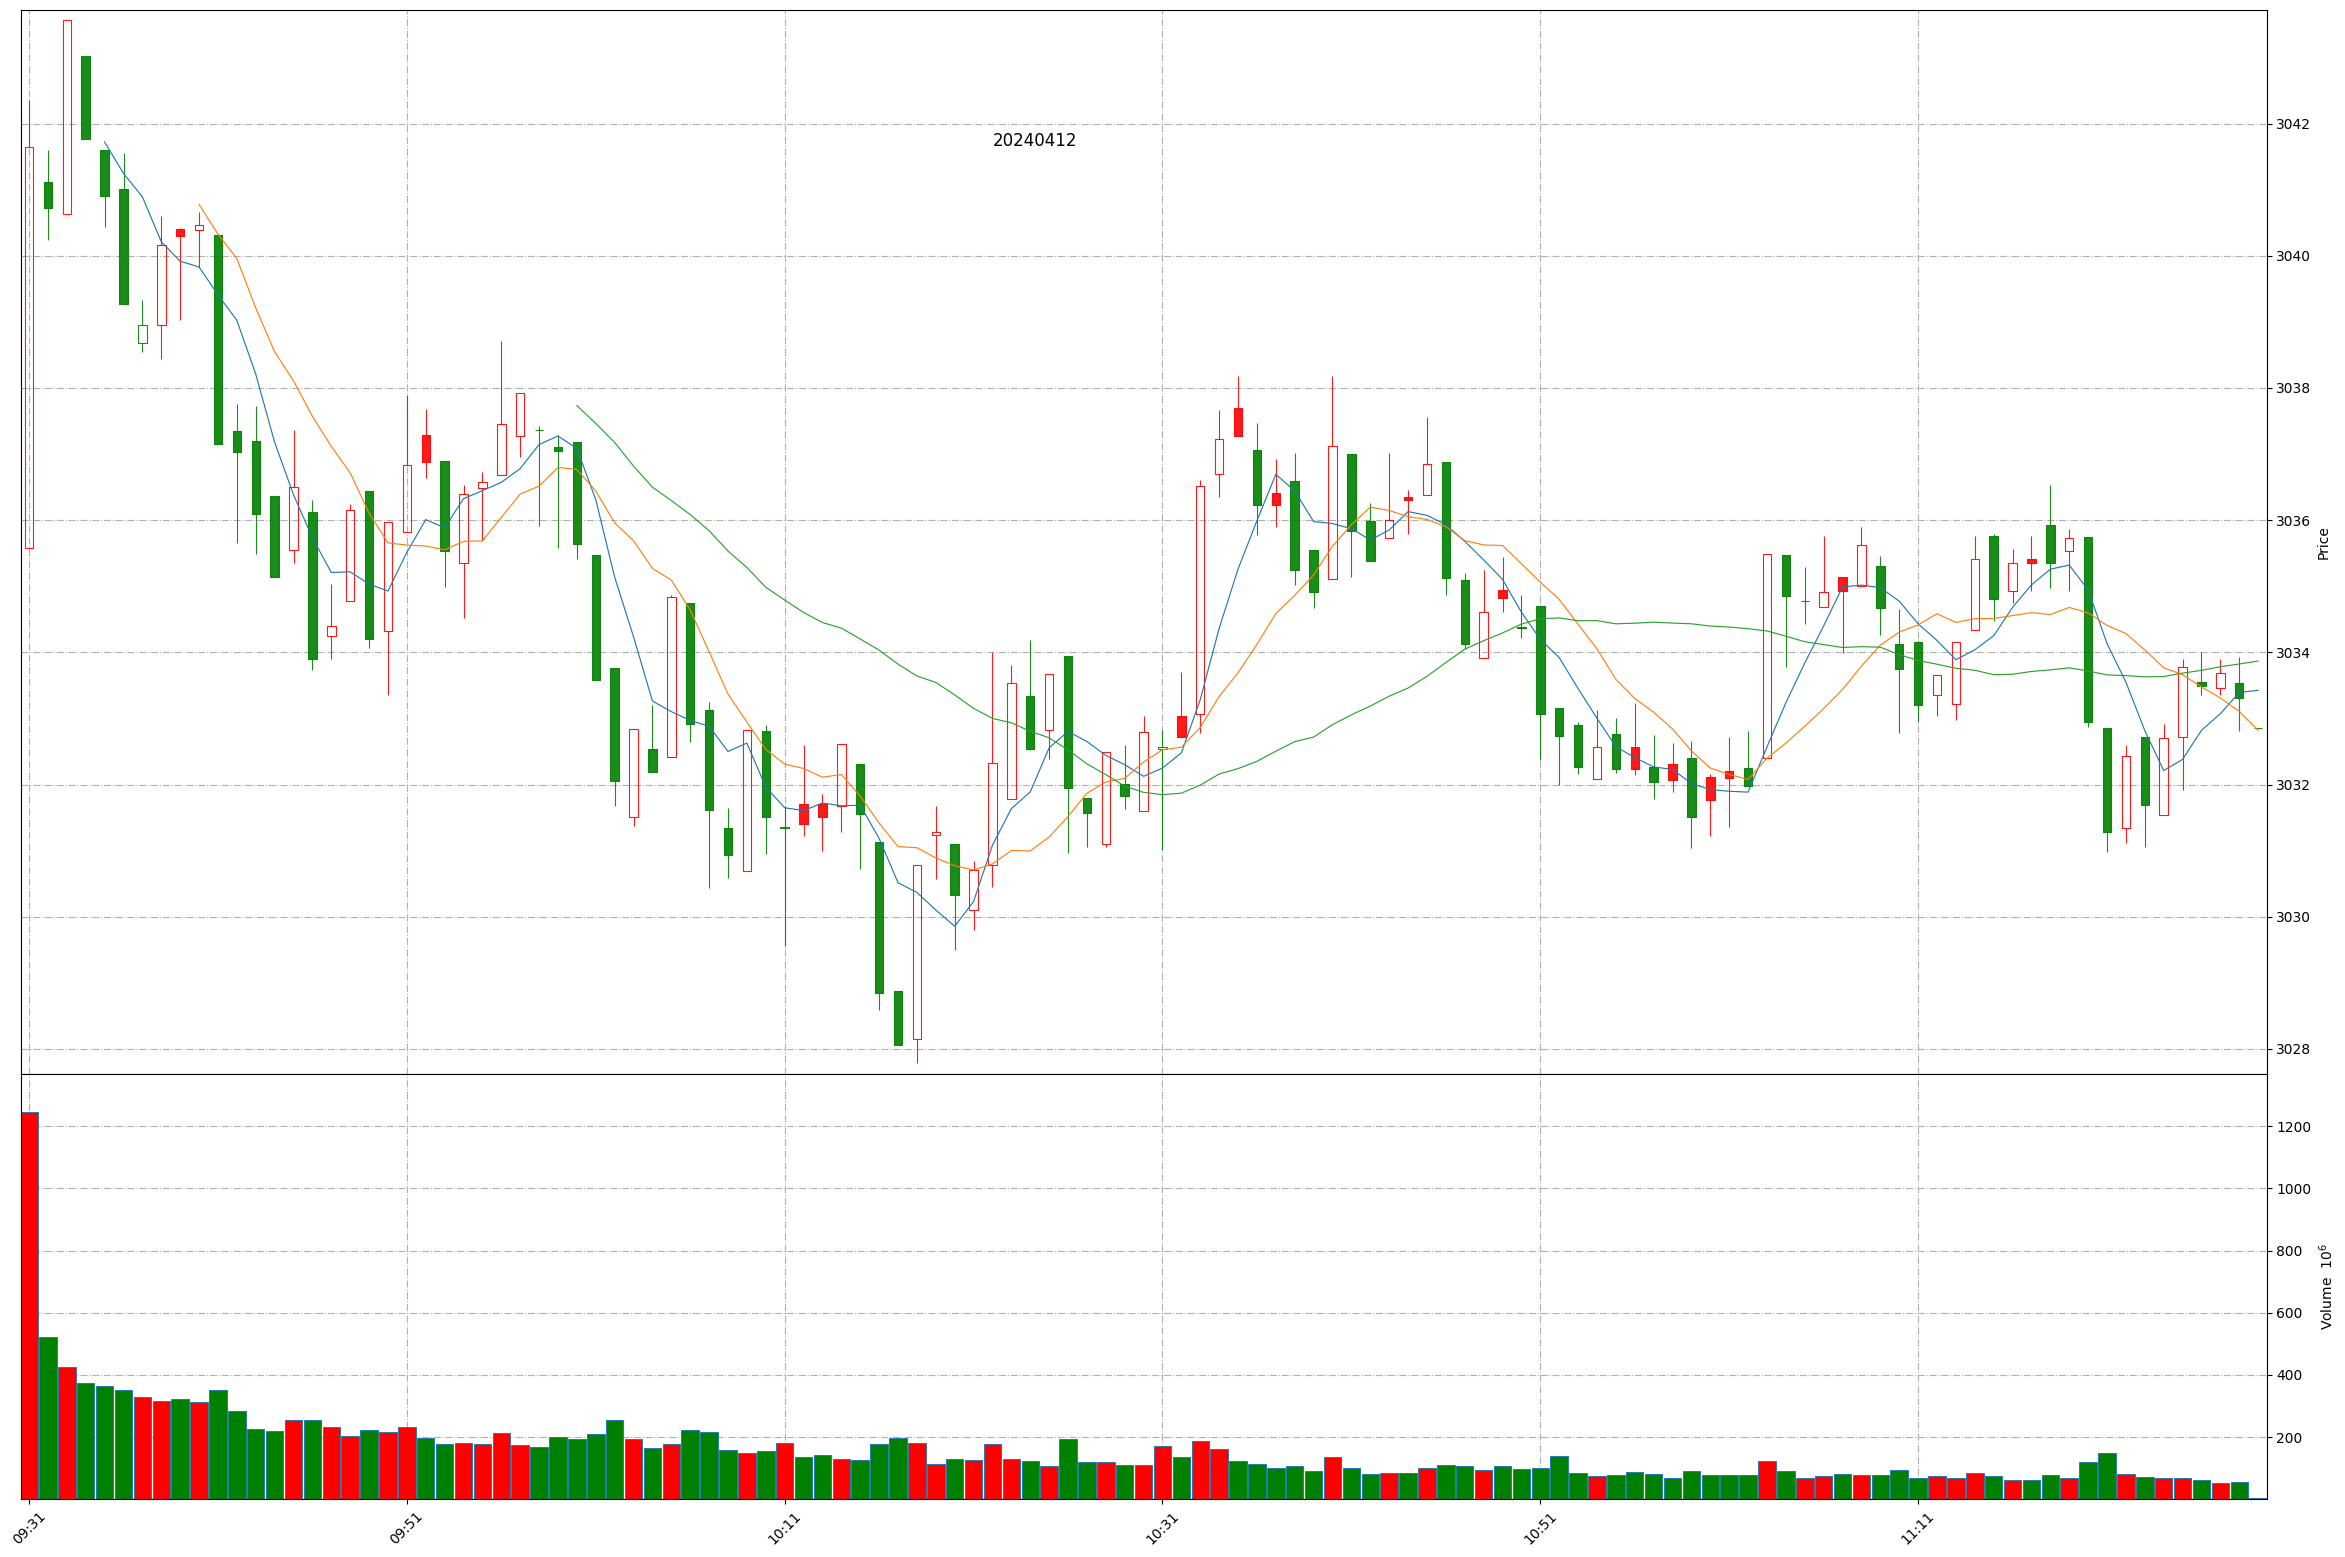
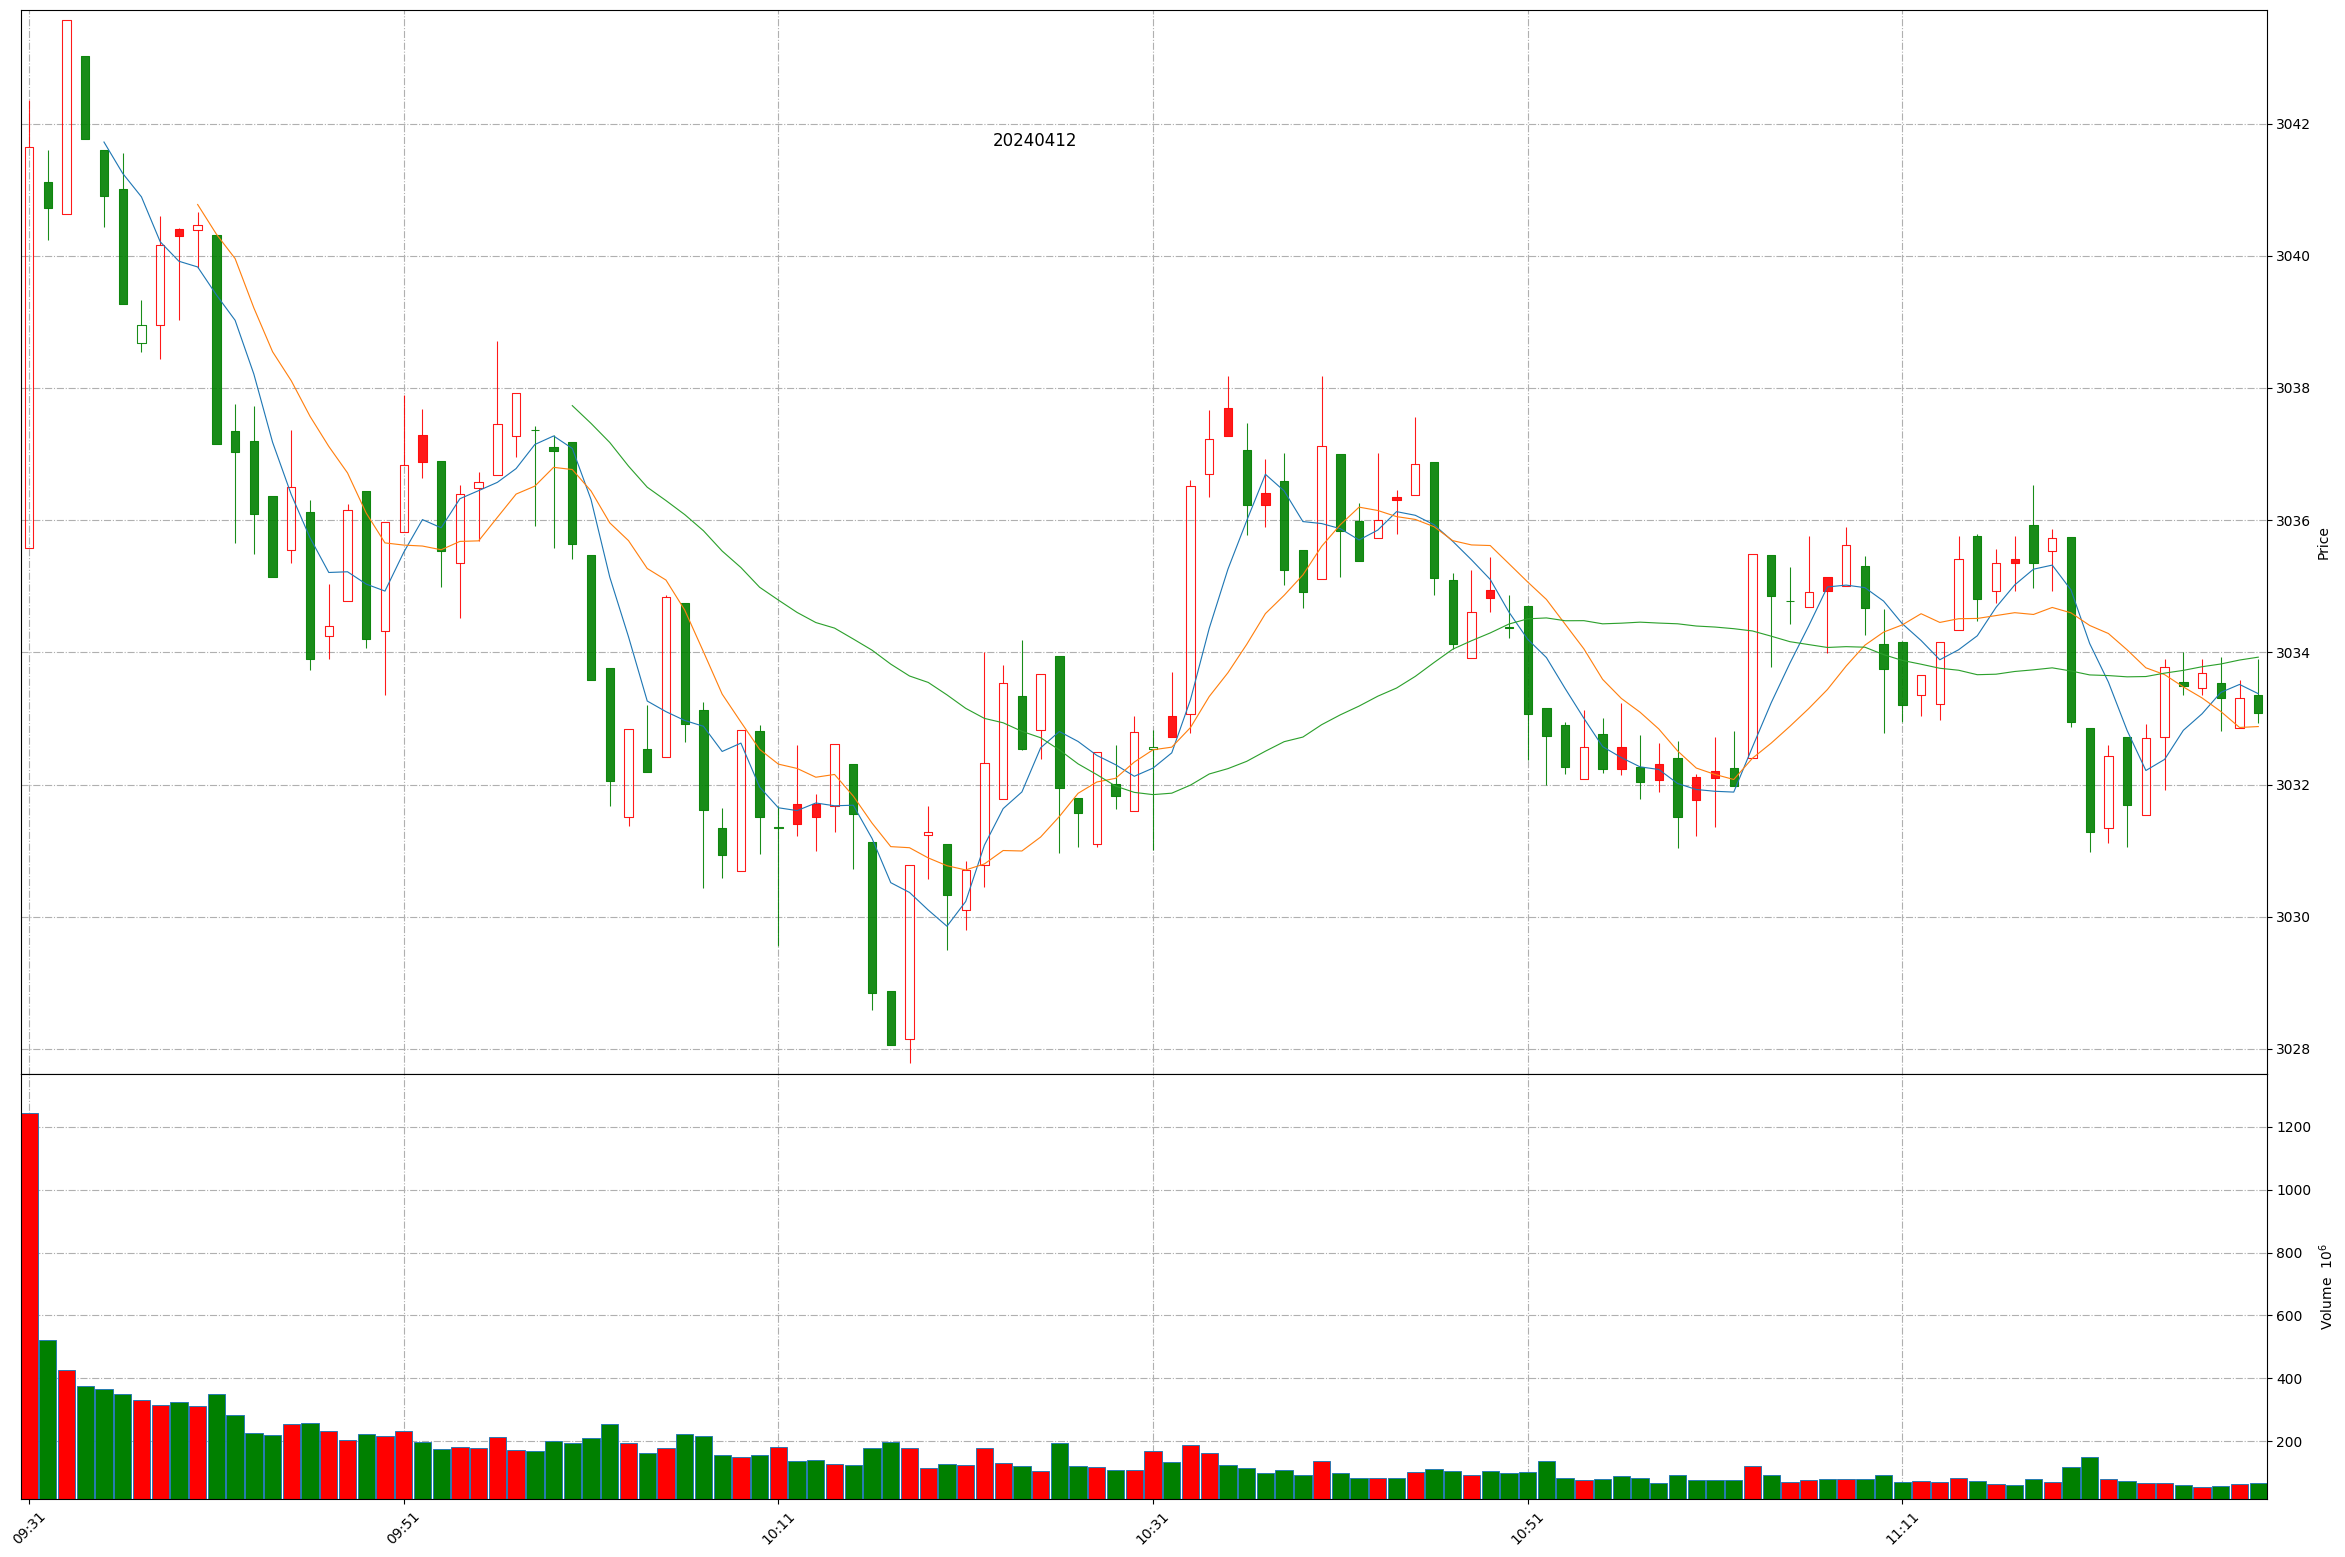
Github action update at 2024-04-12 11:36:24.

diff --git a/README.md b/README.md
@@ -1,11 +1,11 @@
 
 # Daily-A-share-market-quotes 每日 A 股指数（5min 更新）- 20240412
 
-### 上证指数 20240412 11:28
+### 上证指数 20240412 11:36
 ![](./fig/2024/4/20240412-sh000001.png)
 
-### 深证成指 20240412 11:28
+### 深证成指 20240412 11:36
 ![](./fig/2024/4/20240412-sz399001.png)
 
-### 北证50 20240412 11:28
+### 北证50 20240412 11:36
 ![](./fig/2024/4/20240412-bj899050.png)
